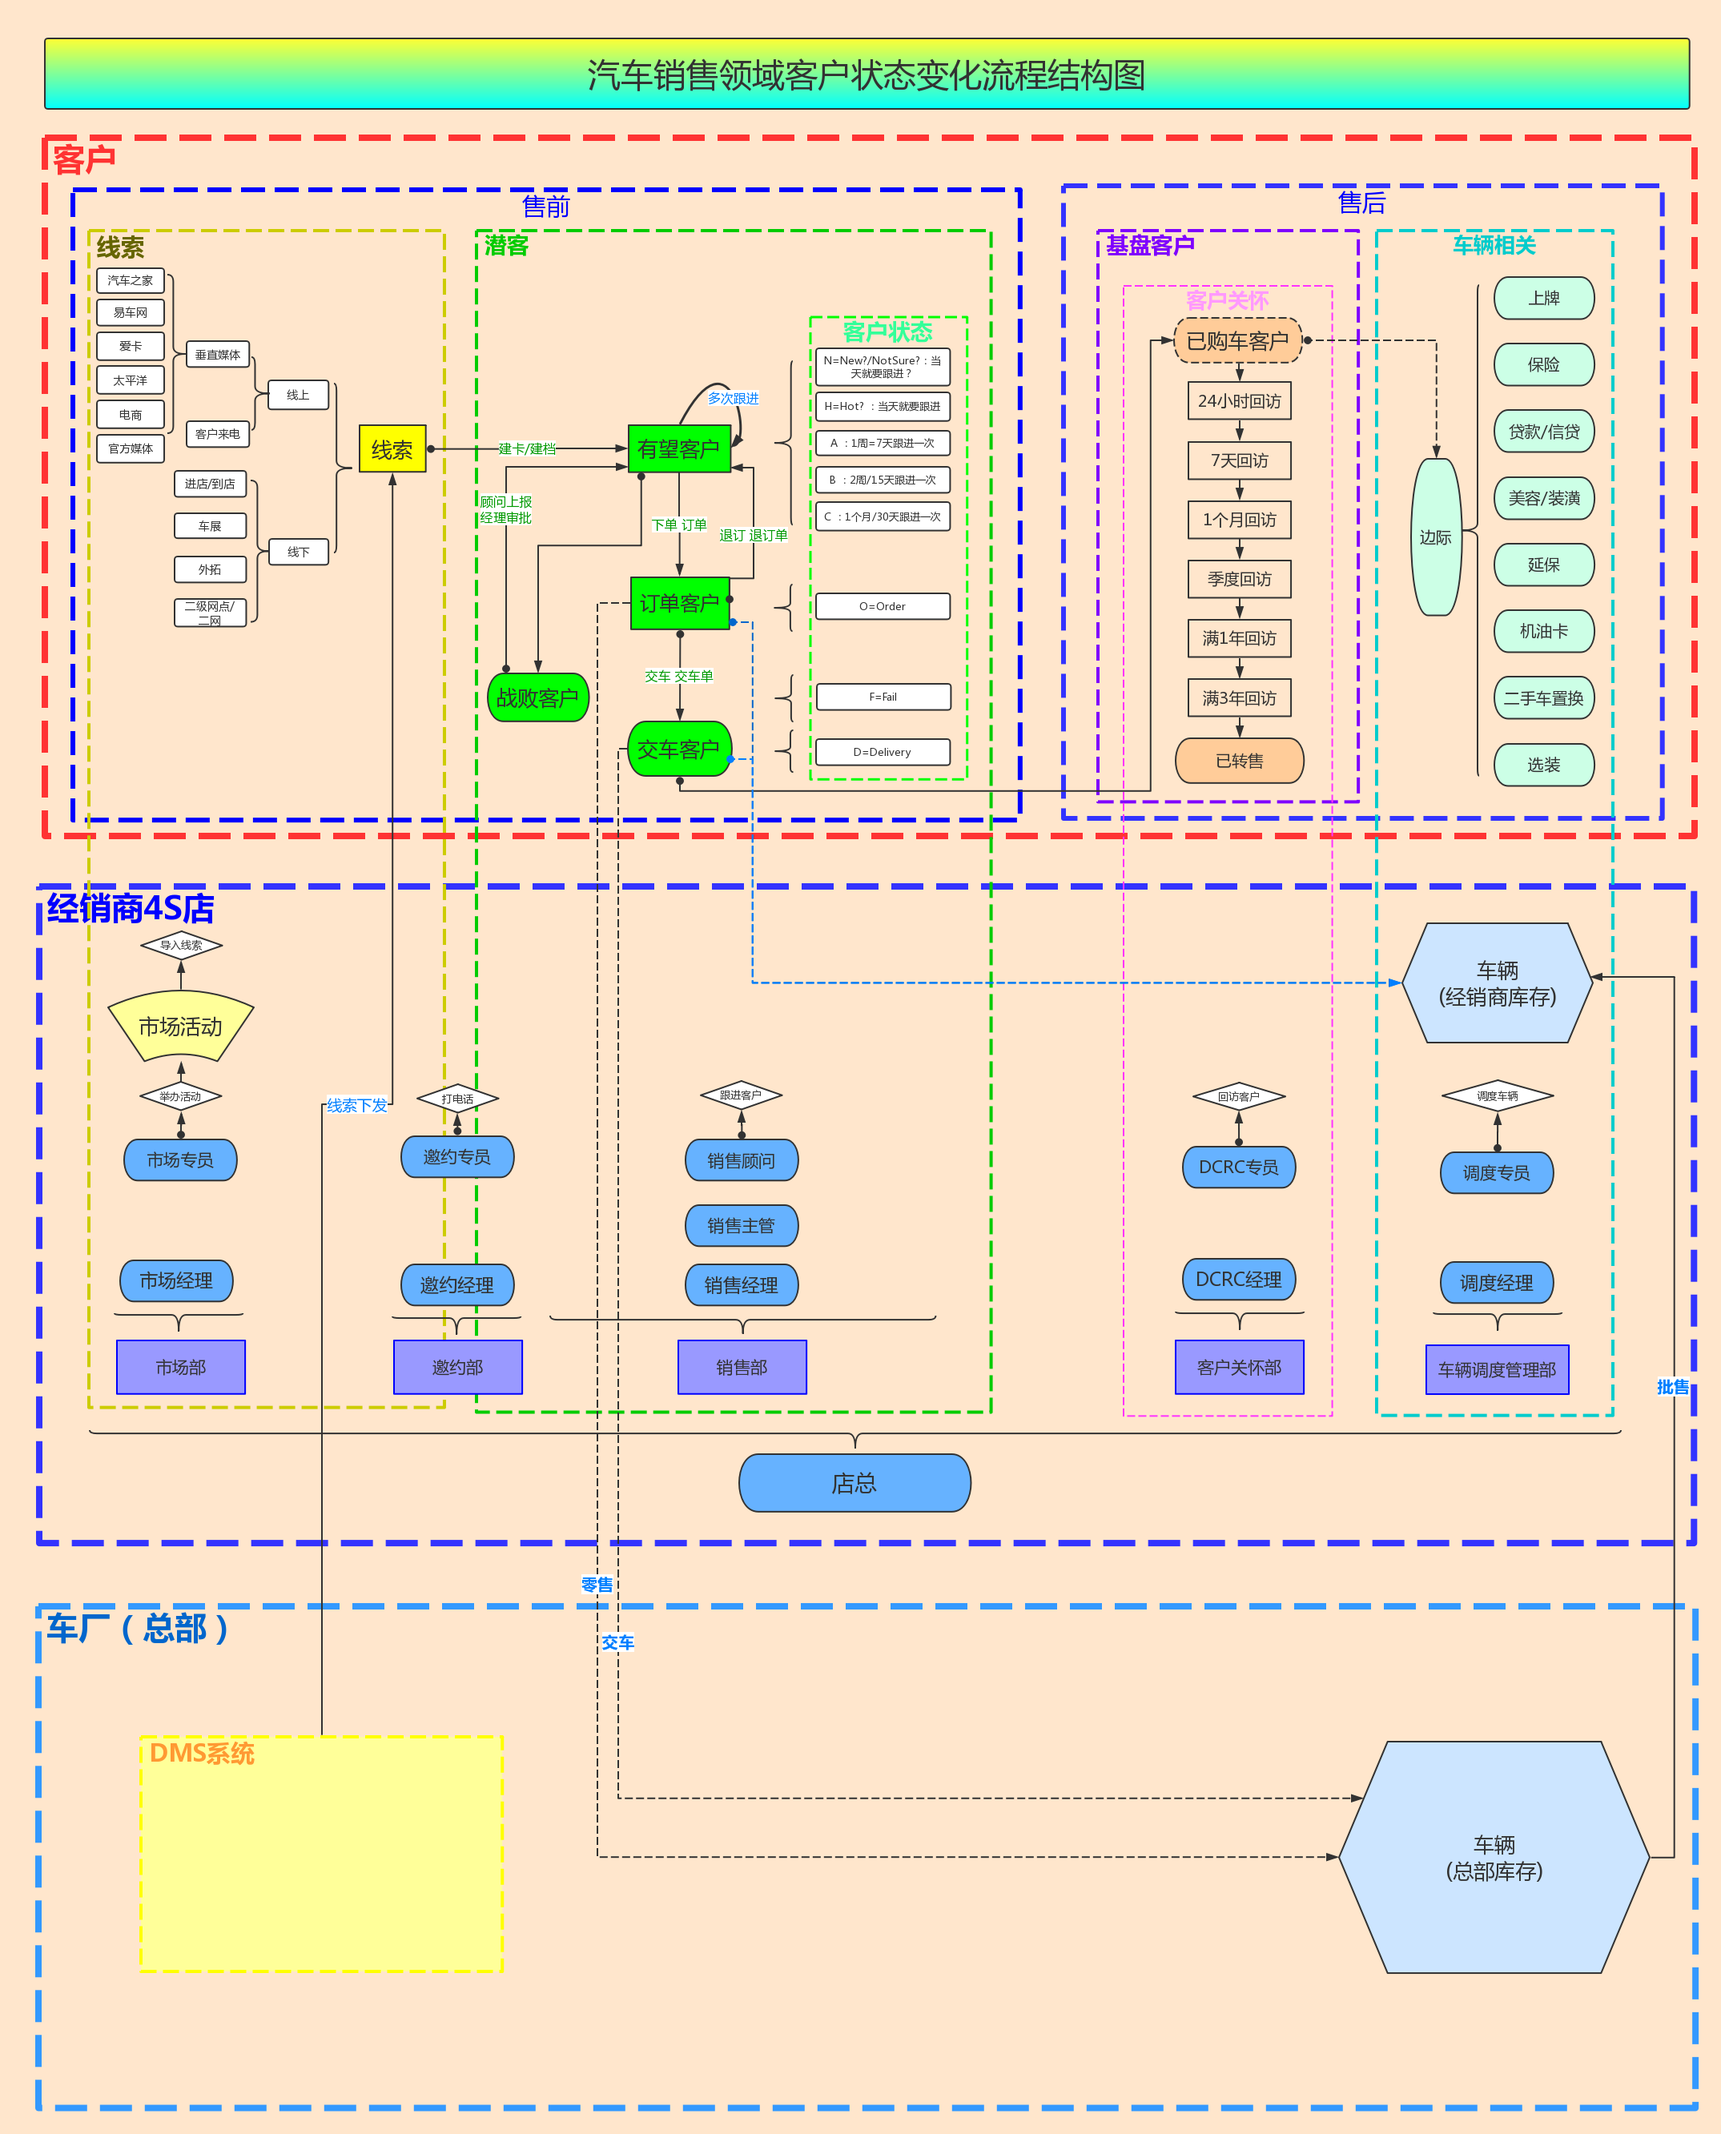
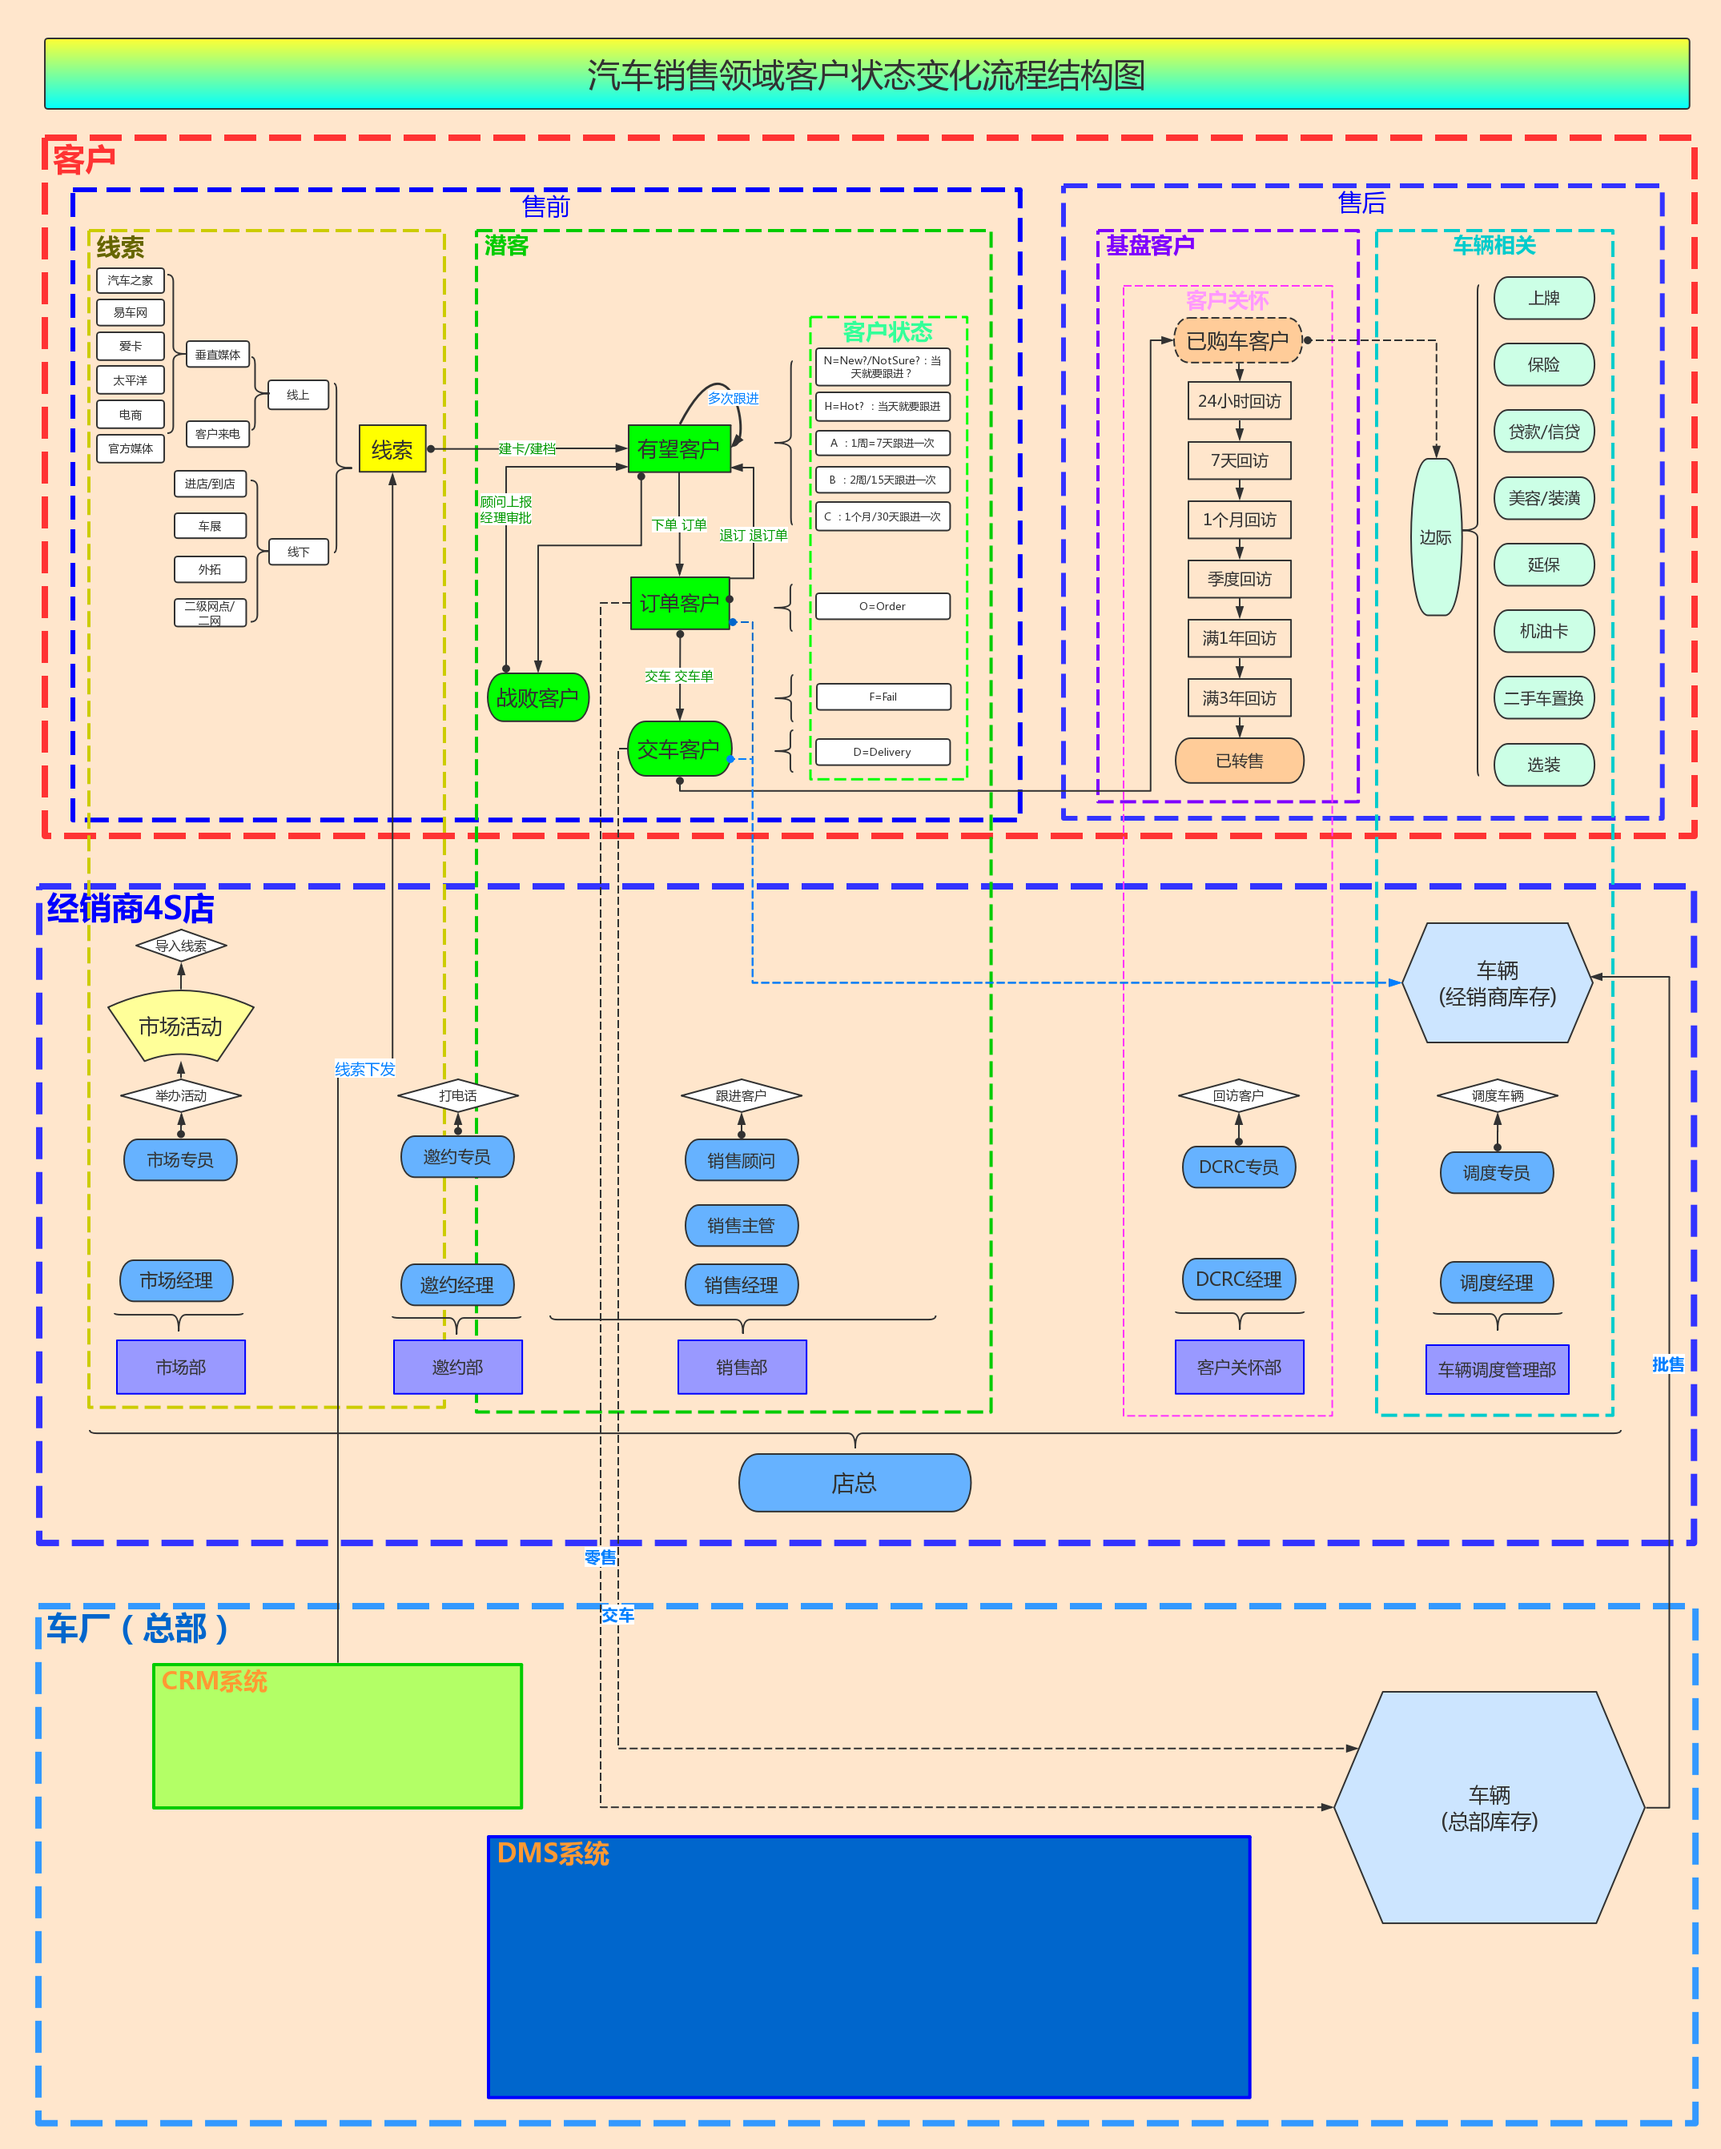
1.update flow chart

diff --git a/src/whole_process_intro/README.md b/src/whole_process_intro/README.md
@@ -26,12 +26,16 @@
 
 从上图的颜色构思角度来说：
 
-* **蓝军**=**我方**：4S店的所有人，算作一个总体的团队，齐心协力，共同目的目标就是：红色的目标：客户，想尽一切办法，让其尽快买车
+* <p style="color: blue;">蓝军=我方=4S店</p>：4S店的所有人，算作一个总体的团队，齐心协力，共同目的目标就是：红色的目标：客户，想尽一切办法，让其尽快买车
   * 且尽量买车之后，后续订单和交车的相关的业务，都在我们4S店办理
   * 且买车的长远之后的，售后和保养，都尽量来我店处理
   * 如果可能，等二次换车，也来我店买
-* **红军**=**客户**：
-  * 被4S店“攻击”的对象
+  * 4S店的`友军`是（背后撑腰的）车厂
+    * 负责批售车辆给4S店
+    * 4S店的订单和交车数据也会上报给车厂
+      * 用于获得车厂店返现和补贴
+* <p style="color: red;">红军=敌人=客户</p>：要买车店客户
+  * 被4S店`攻击`的对象
   * 但是拥有自己的自主权
   * 是否买车，取决于各种条件
     * 包括价格
@@ -73,9 +77,12 @@
 | 售后 的 基盘客户 | 4S店 的 维修部门 | 如果客户车子出问题了，过来4S店进行维护，就会涉及到维修部人员维修车辆 |
 | | | |
 | **其他相关说明** | | |
-| 售前 的 交车客户 和 订单客户 | 4S店的 车辆管理部 负责匹配 车辆<br/>4S店的售后相关其他部门 | 在交车和订单的过程中，都会涉及到：<br/>库存<br/>各种边际，比如上牌、保险等等事宜  | |
+| 售前 的 线索 | 车厂有相关的CRM等系统，从其他渠道得到线索后<br/>会从车厂下发线索到4S店的系统中 |  |
+| 售前 的 交车客户 和 订单客户 | 4S店的 车辆管理部 负责匹配 车辆<br/>4S店的售后相关其他部门 | 在交车和订单的过程中，都会涉及到：<br/>库存<br/>各种**边际**，比如上牌、保险等等事宜  | |
+| 售前的 客户 的 交车 和 订单 | 4S店的系统中会有订单和交车单 | 对应着4S店系统会上报到车厂的 交车 和订单的系统中 |
+|  | 4S店的年度有个批售的资金计划 | 对应着车厂会**批售**车辆给经销商，从总部库存运输到经销商4S店的库存 |
 
-## 汽车销售领域客户状态变化流程结构图 的总结
+## 汽车销售领域流程总结
 
 整个汽车销售的过程，可以用一句话概括：
 **（4S店的各个部门的）一堆人努力促成（作为一个）客户（的你）尽快买车**
